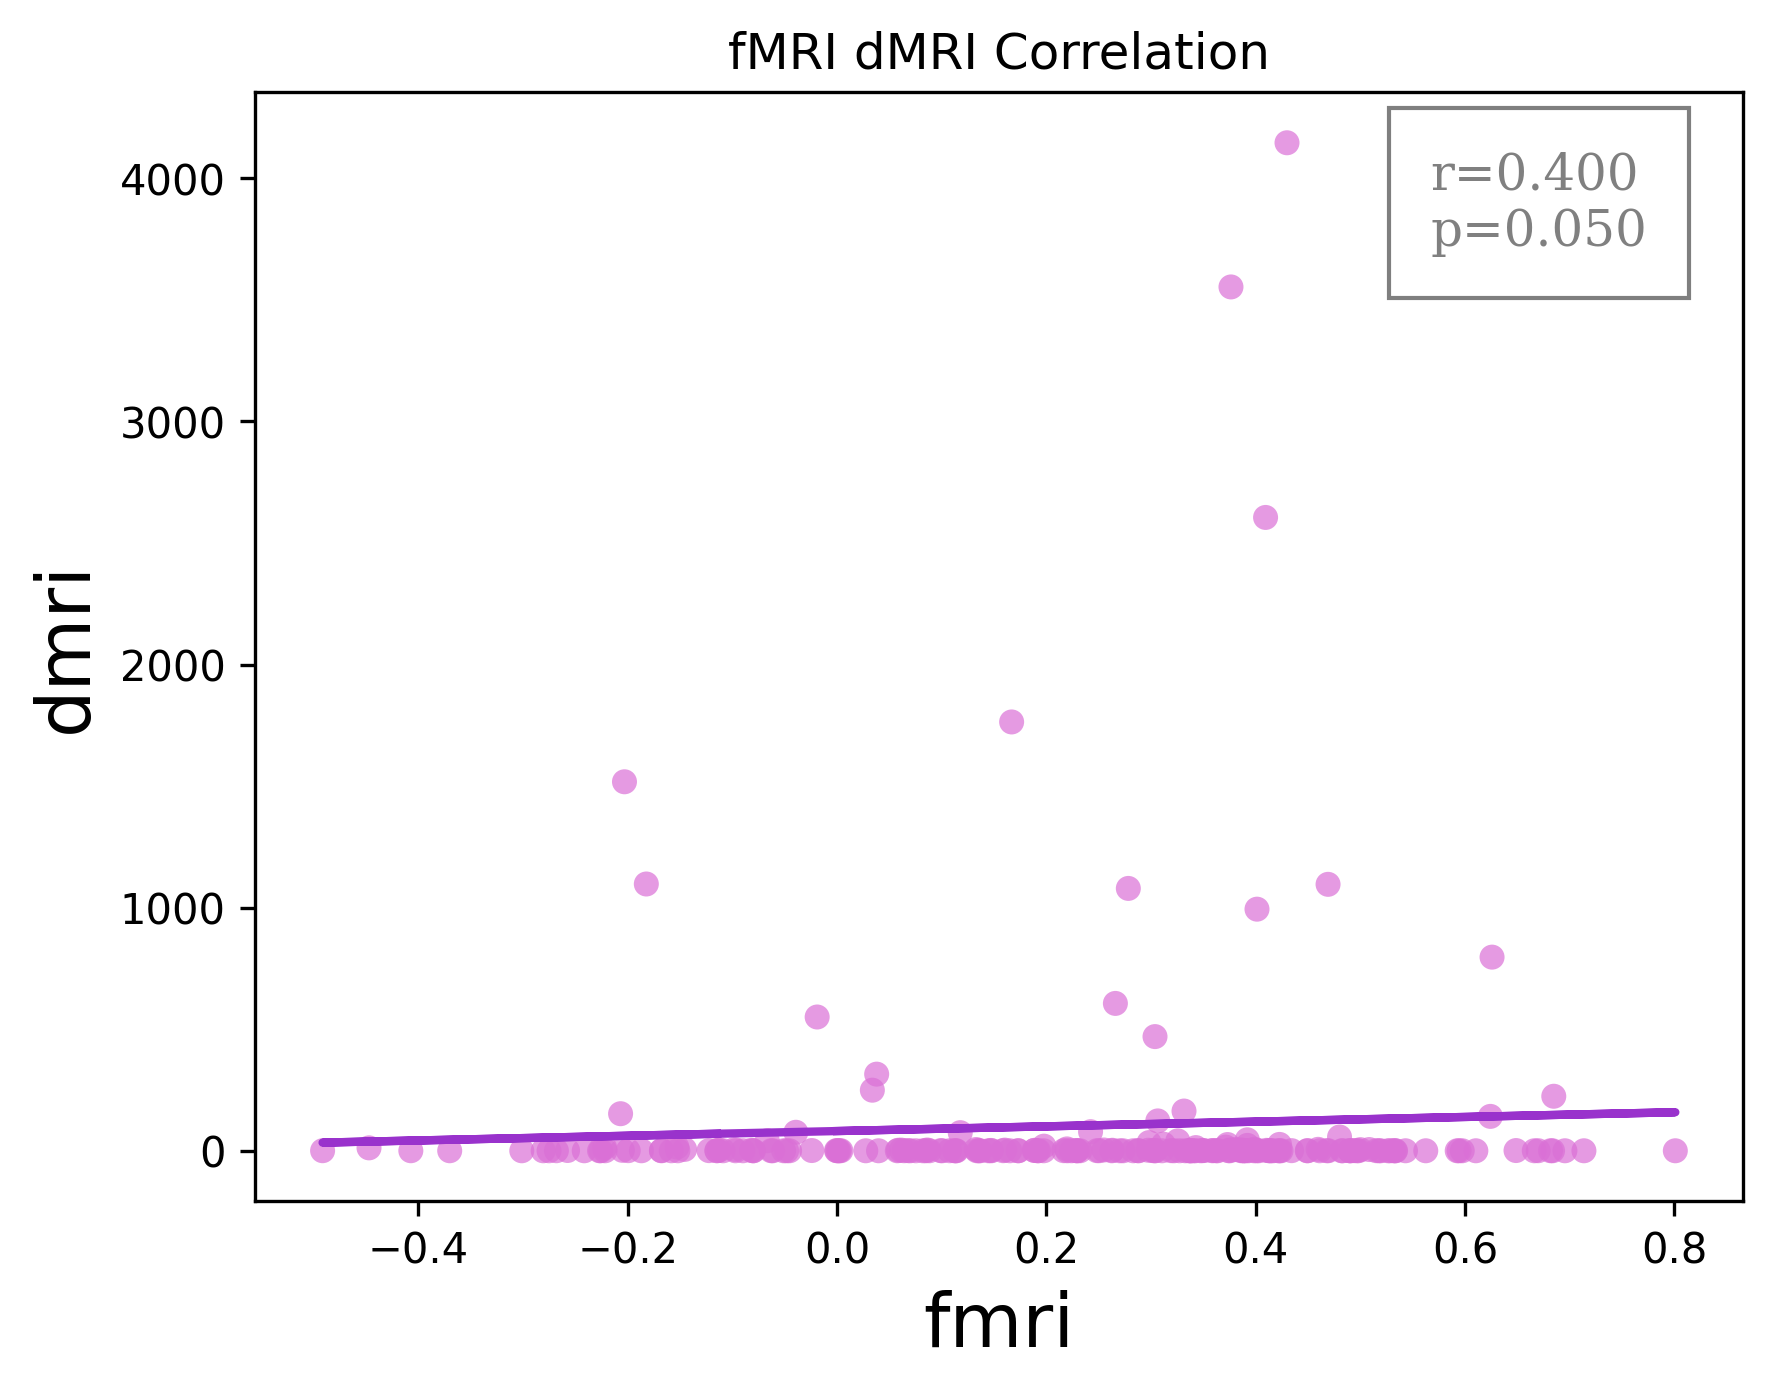
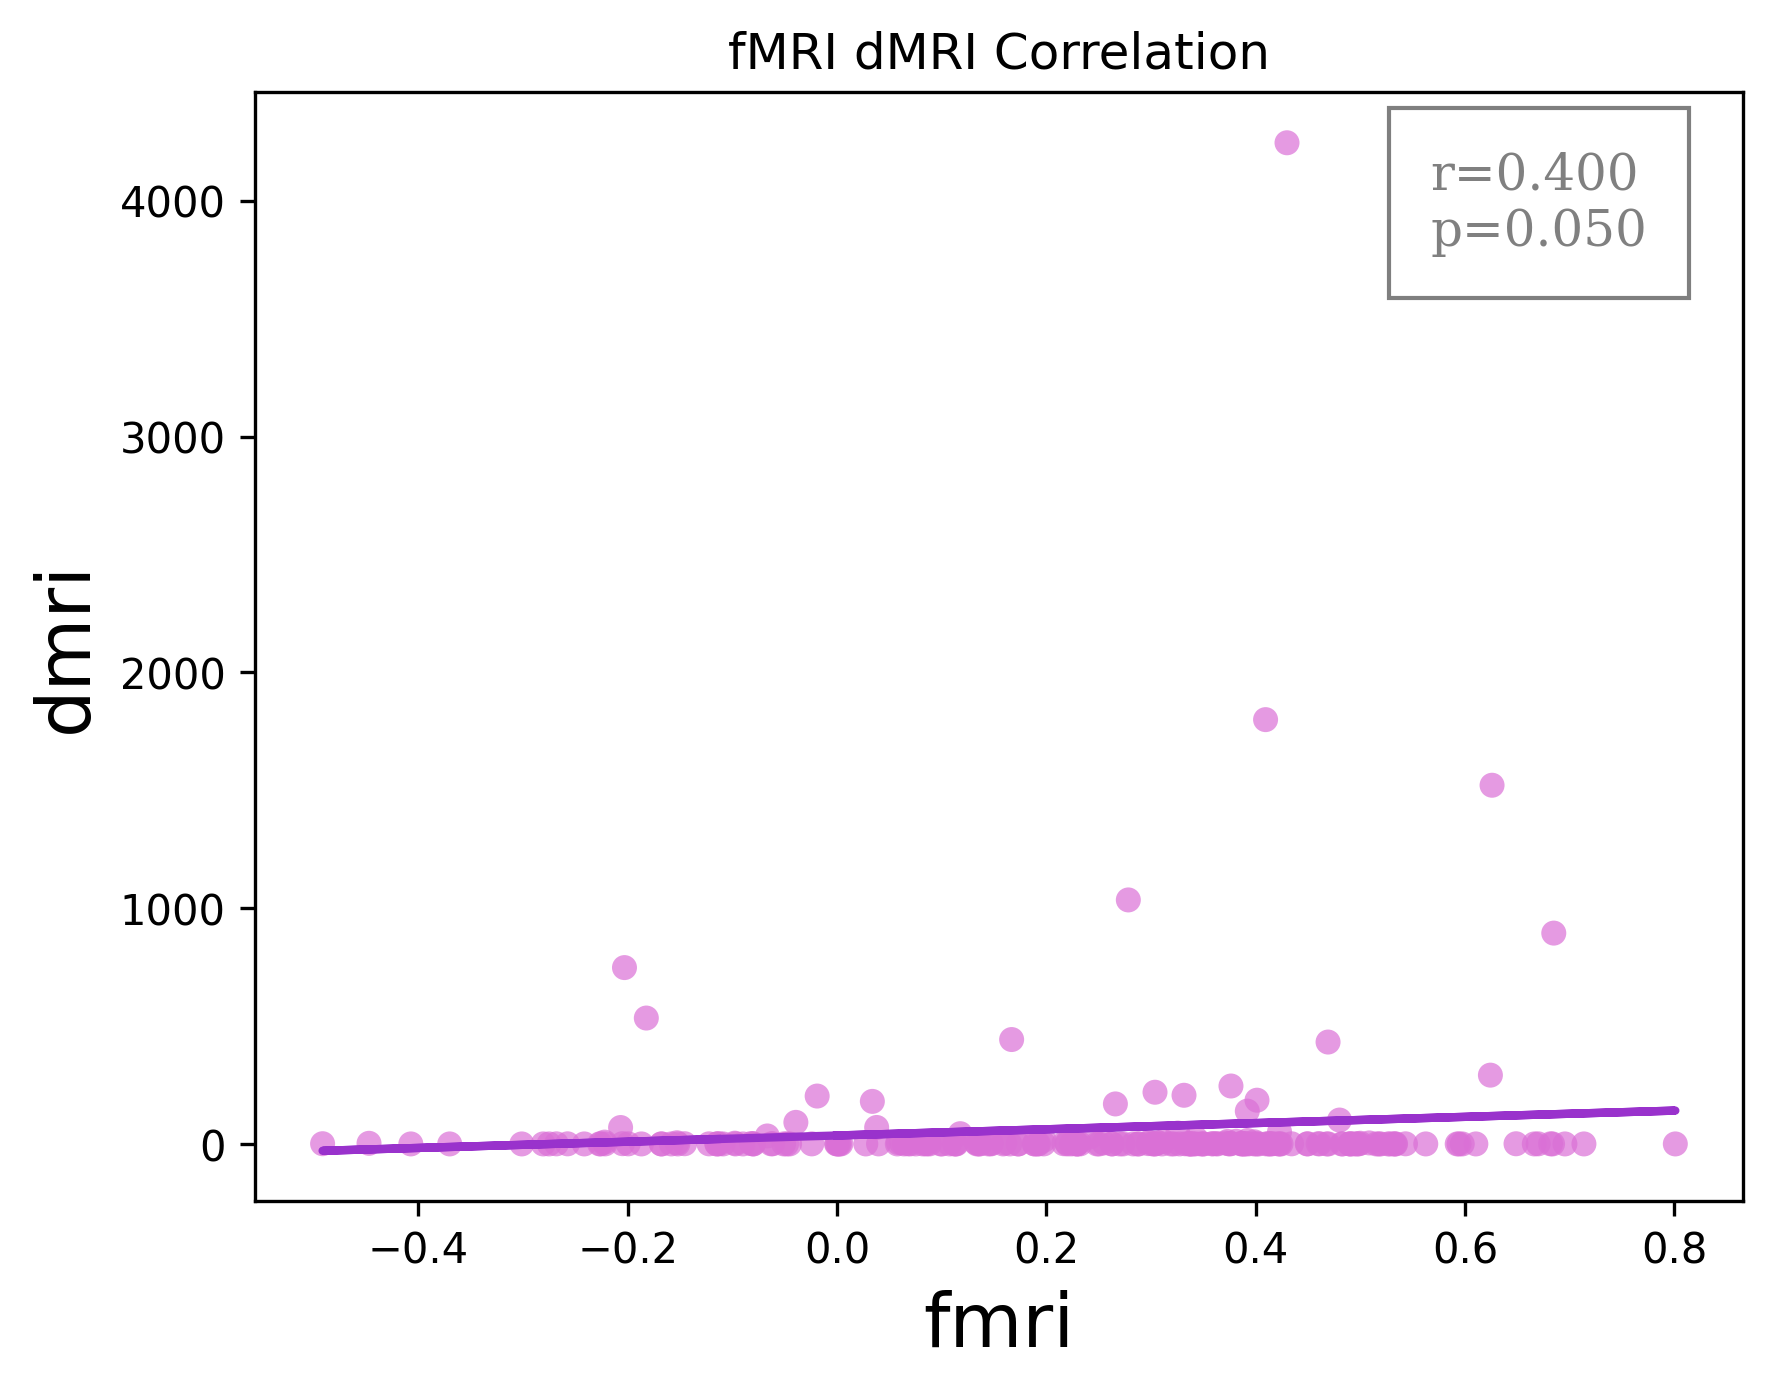
update connectome script

diff --git a/bctWrapper/main.py b/bctWrapper/main.py
@@ -1,4 +1,3 @@
-
 import bct
 import scipy.stats as stt
 import numpy as np
@@ -9,15 +8,17 @@ import click
 from helpers import drawCorrelationPlot, heatMap as heat_map
 
 
-
 # list of 50 subjects
 cwd = os.getcwd()
-fmri_connectomes_dir = os.path.join(cwd, "pnc_fmri_connectomes")  # pnc dataset connectomes
-dmri_connectomes_dir = os.path.join(cwd, "pnc_dmri_connectomes")  # pnc dataset connectomes
+fmri_connectomes_dir = os.path.join(
+    cwd, "pnc_fmri_connectomes"
+)  # pnc dataset connectomes
+dmri_connectomes_dir = os.path.join(
+    cwd, "pnc_dmri_connectomes"
+)  # pnc dataset connectomes
 
-subjects_file = os.path.join(
-    cwd, "src/pnc_subjects.txt"
-) 
+subjects_file = os.path.join(cwd, "src/pnc_subjects.txt")
+
 
 def get_subject_list(n=50):
     with open(subjects_file, "r") as f:
@@ -25,20 +26,27 @@ def get_subject_list(n=50):
     f.close()
     return sorted(subject_list[0:n])
 
+
 def connectome_file_name(subject):
     return str(subject) + ".txt"
-    
+
+
 def get_weighted_connectome(subject_id, mri_type="fmri"):
     connectome_file = connectome_file_name(subject_id)
-    connectome_dir = fmri_connectomes_dir if mri_type == "fmri" else dmri_connectomes_dir
+    connectome_dir = (
+        fmri_connectomes_dir if mri_type == "fmri" else dmri_connectomes_dir
+    )
     temp_connectome = os.path.join(connectome_dir, connectome_file)
     connectome = np.loadtxt(temp_connectome)
     weighted_connectome = np.array(connectome)
     return weighted_connectome
 
+
 def get_flat_connectome(subject_id, mri_type="fmri"):
     connectome_file = str(subject_id) + ".txt"
-    connectome_dir = fmri_connectomes_dir if mri_type == "fmri" else dmri_connectomes_dir
+    connectome_dir = (
+        fmri_connectomes_dir if mri_type == "fmri" else dmri_connectomes_dir
+    )
     temp_connectome = os.path.join(connectome_dir, connectome_file)
     flat_connectome = np.loadtxt(temp_connectome, max_rows=1)
     return flat_connectome
@@ -48,23 +56,50 @@ def get_flat_connectome(subject_id, mri_type="fmri"):
 def cli():
     pass
 
+
 @click.command()
 @click.argument("subject", type=int)
 def heatmap(subject):
     subject_id = str(subject)
     data = get_weighted_connectome(subject_id, "fmri")
     output_path = os.path.join(cwd, "heatmap_" + subject_id + ".png")
-    heat_map(data,0, output_path,"white",1,)
-       
+    heat_map(
+        data,
+        0,
+        output_path,
+        "white",
+        1,
+    )
+
+
+@click.command()
+@click.argument("subject", type=int)
+def correlation(subject):
+    subject_id = str(subject)
+    fmri_subject_connectome = get_flat_connectome(subjects[subject], "fmri")
+    dmri_subject_connectome = get_flat_connectome(subjects[subject], "dmri")
+
+    click.echo("fMRI dMRI Correlation for Subject : " + subject_id)
+    drawCorrelationPlot(
+        fmri_subject_connectome,
+        dmri_subject_connectome,
+        0.4,
+        0.05,
+        "fmri",
+        "dmri",
+        "fMRI dMRI Correlation",
+        "pnc_connectome_correlation.png",
+    )
+    # data = get_weighted_connectome(subject_id, "fmri")
+    # output_path = os.path.join(cwd, "correlation_" + subject_id + ".png")
+    # drawCorrelationPlot(data, output_path)
+
 
 cli.add_command(heatmap)
-
+cli.add_command(correlation)
 
 if __name__ == "__main__":
-    #cli()
-    
-    subjects = get_subject_list(5)
-    fmri_subject_connectome = get_flat_connectome(subjects[0], "fmri")
-    dmri_subject_connectome = get_flat_connectome(subjects[4], "dmri")
-    drawCorrelationPlot(fmri_subject_connectome, dmri_subject_connectome,.4,.05, "fmri", "dmri", "fMRI dMRI Correlation", "pnc_connectome_correlation.png")
- 
+
+    subjects = get_subject_list(50)  # 50 subjects in pnc_subjects.txt
+    subject = subjects[0]
+    cli()
